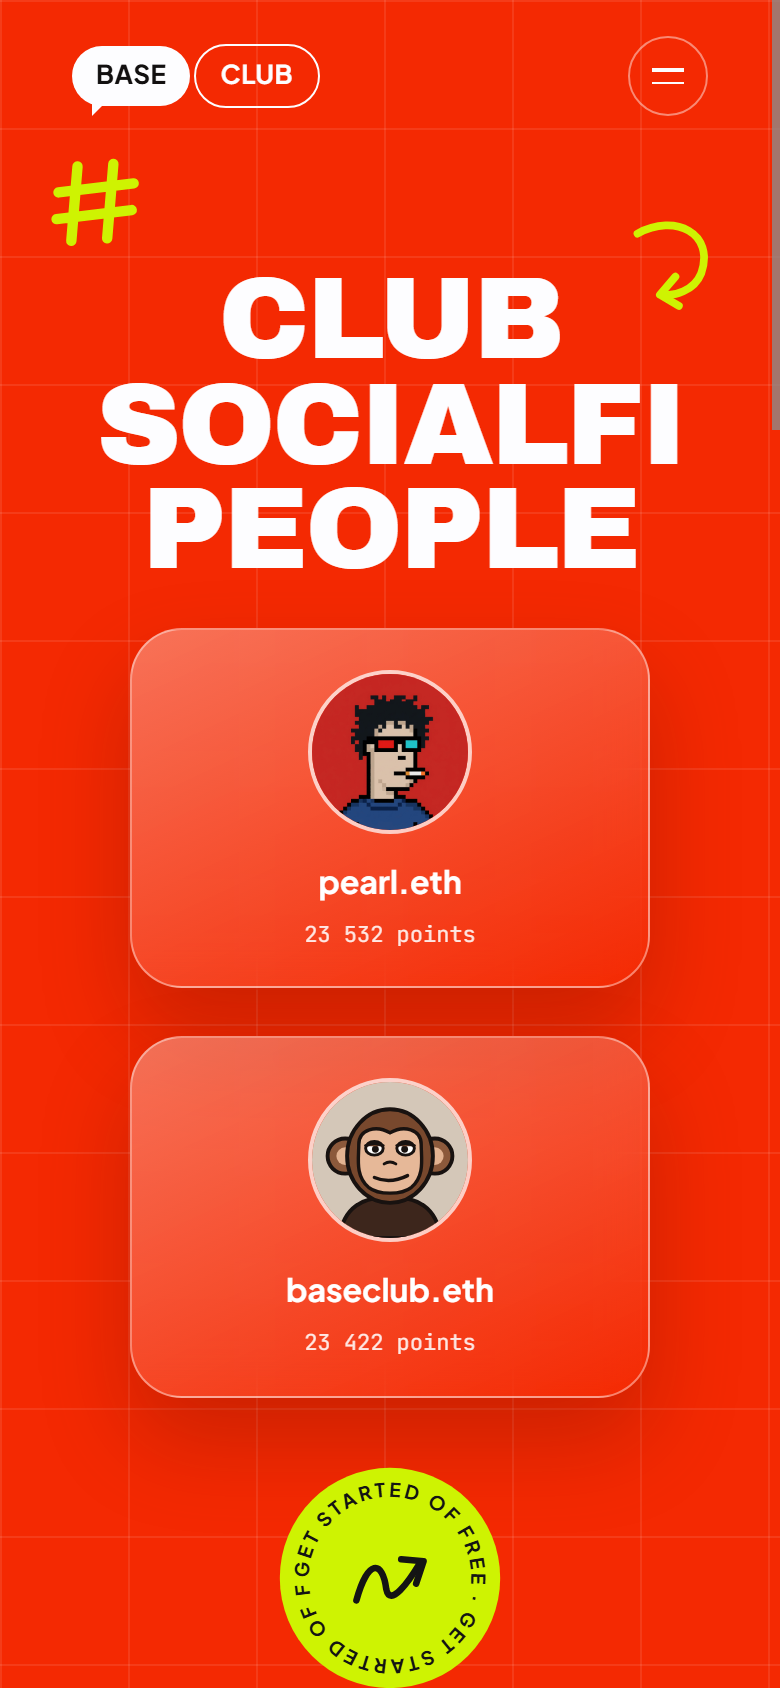
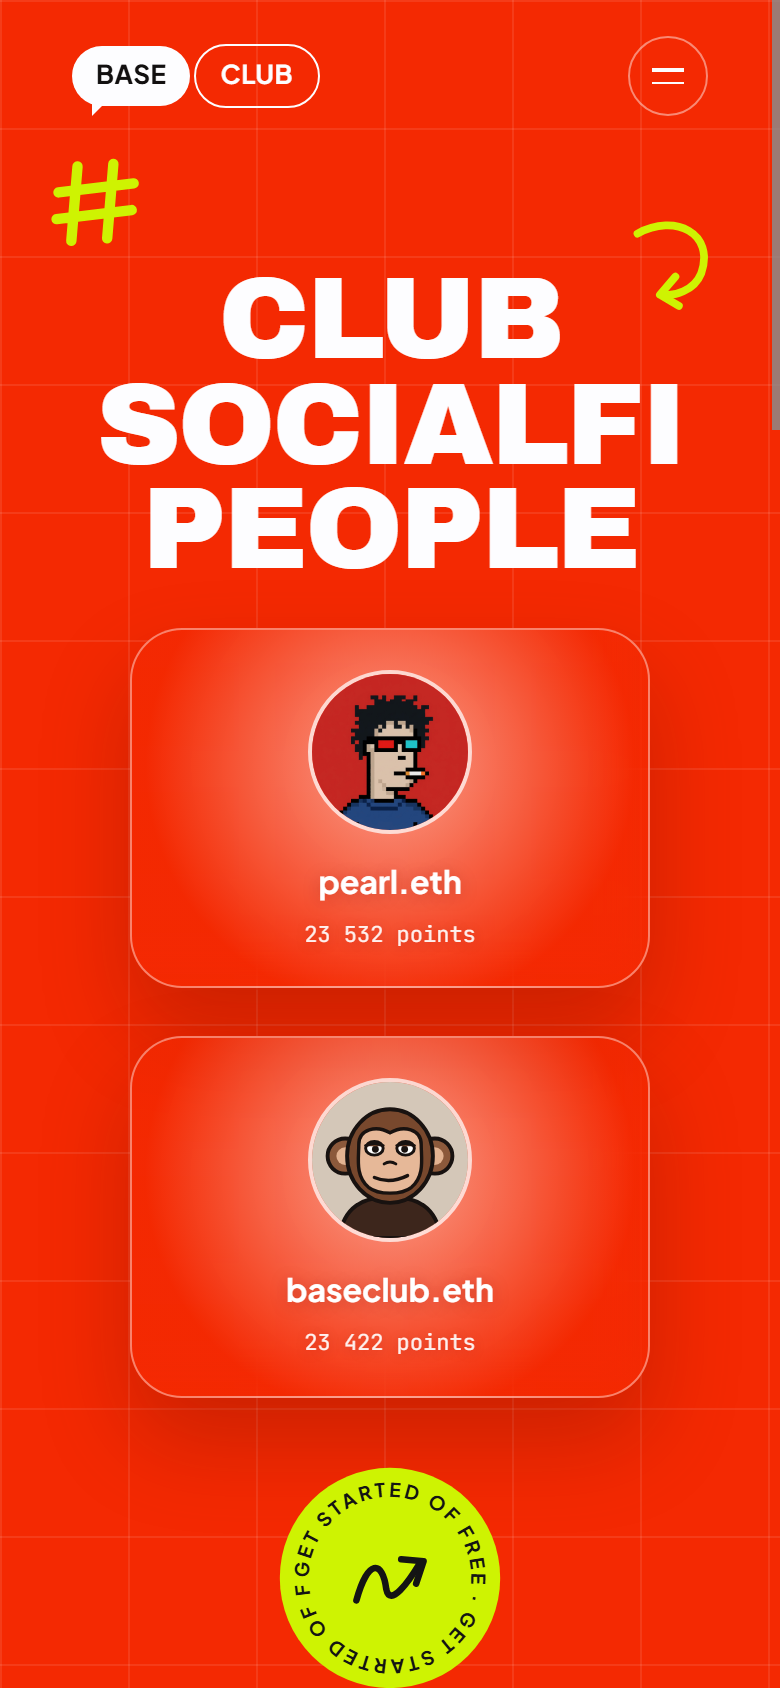
style(socialclub_redorange+snowywhite+yellowpunk): refine arrow doodle, glass card gradients, and refresh screenshots

diff --git a/socialclub_redorange+snowywhite+yellowpunk/styles.css b/socialclub_redorange+snowywhite+yellowpunk/styles.css
@@ -247,9 +247,9 @@ img { display: block; max-width: 100%; }
 }
 
 .doodle--bot-arrow {
-  width: clamp(84px, 10vw, 134px);
-  left: 6%;
-  bottom: -14%;
+  width: clamp(96px, 11.5vw, 150px);
+  left: 15.5%;
+  bottom: -8%;
 }
 
 /* Tilted Glass PFP Cards */
@@ -259,7 +259,7 @@ img { display: block; max-width: 100%; }
   width: clamp(148px, 14vw, 186px);
   padding: 20px 14px 18px;
   border-radius: 26px;
-  background: linear-gradient(155deg, rgba(255, 255, 255, 0.34), rgba(244, 41, 2, 0.56));
+  background: radial-gradient(circle at 50% 38%, rgba(255, 255, 255, 0.55), rgba(244, 41, 2, 0.58) 72%);
   border: 1px solid rgba(255, 255, 255, 0.42);
   backdrop-filter: blur(12px);
   box-shadow: 0 22px 44px rgba(100, 14, 0, 0.28);
@@ -271,13 +271,13 @@ img { display: block; max-width: 100%; }
 
 .pfp-card--pearl {
   left: 52%;
-  top: 24%;
+  top: 19%;
   transform: rotate(7deg);
 }
 
 .pfp-card--base {
-  left: 25%;
-  bottom: -14%;
+  left: 29.5%;
+  bottom: -10%;
   transform: rotate(-8deg);
 }
 
@@ -300,13 +300,15 @@ img { display: block; max-width: 100%; }
   font-size: 16px;
   font-weight: 700;
   color: #FFFFFF;
+  text-shadow: 0 1px 8px rgba(130, 16, 0, 0.35);
 }
 
 .pfp-points {
   font-family: var(--font-mono);
   font-size: 11px;
-  color: rgba(255, 255, 255, 0.88);
+  color: rgba(255, 255, 255, 0.92);
   font-variant-numeric: tabular-nums;
+  text-shadow: 0 1px 6px rgba(130, 16, 0, 0.3);
 }
 
 /* Circular Stamp */

diff --git a/socialclub_redorange+snowywhite+yellowpunk/index.html b/socialclub_redorange+snowywhite+yellowpunk/index.html
@@ -67,9 +67,9 @@
           <path d="M62 82 L44 103 L66 116" stroke="#CEF302" stroke-width="9" stroke-linecap="round" stroke-linejoin="round" />
         </svg>
 
-        <svg class="doodle doodle--bot-arrow" viewBox="0 0 140 120" fill="none" aria-hidden="true">
-          <path d="M24 96 C26 48, 52 24, 54 64 C56 96, 86 84, 118 76" stroke="#CEF302" stroke-width="9" stroke-linecap="round" />
-          <path d="M98 60 L122 76 L102 96" stroke="#CEF302" stroke-width="9" stroke-linecap="round" stroke-linejoin="round" />
+        <svg class="doodle doodle--bot-arrow" viewBox="0 0 130 150" fill="none" aria-hidden="true">
+          <path d="M16 124 C26 88, 39 44, 52 22 C57 13, 62 19, 58 40 C52 68, 46 102, 50 123 C53 135, 62 127, 75 114 C90 99, 102 89, 114 82" stroke="#CEF302" stroke-width="10" stroke-linecap="round" stroke-linejoin="round" />
+          <path d="M88 77 L116 81 L104 107" stroke="#CEF302" stroke-width="10" stroke-linecap="round" stroke-linejoin="round" />
         </svg>
 
         <!-- Floating Member Cards -->
